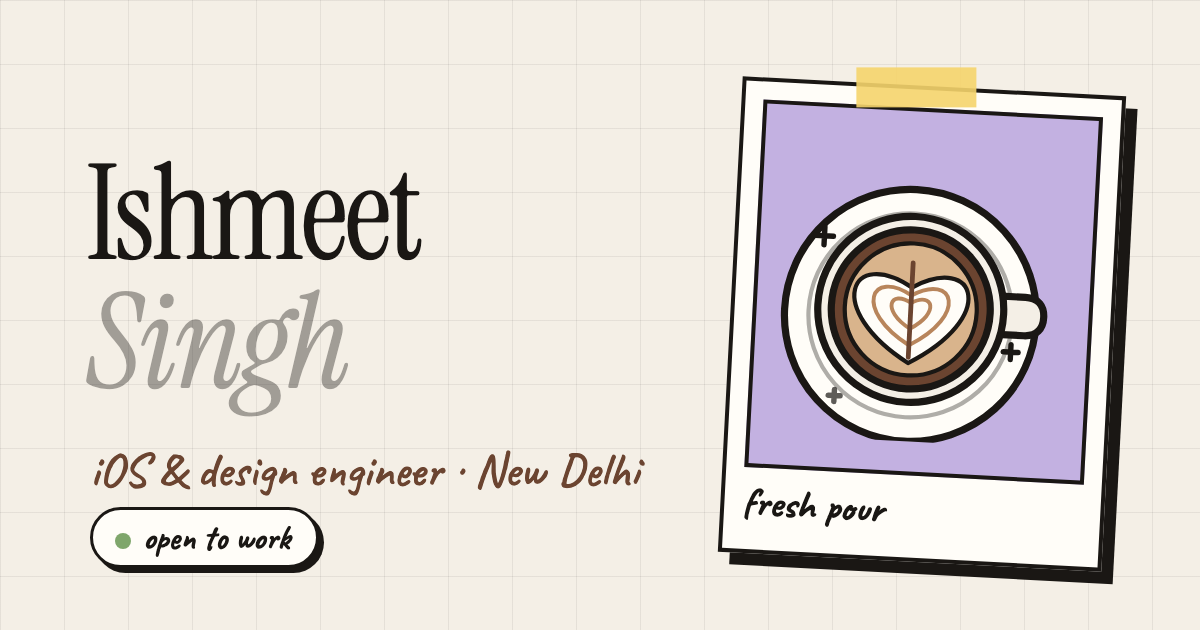
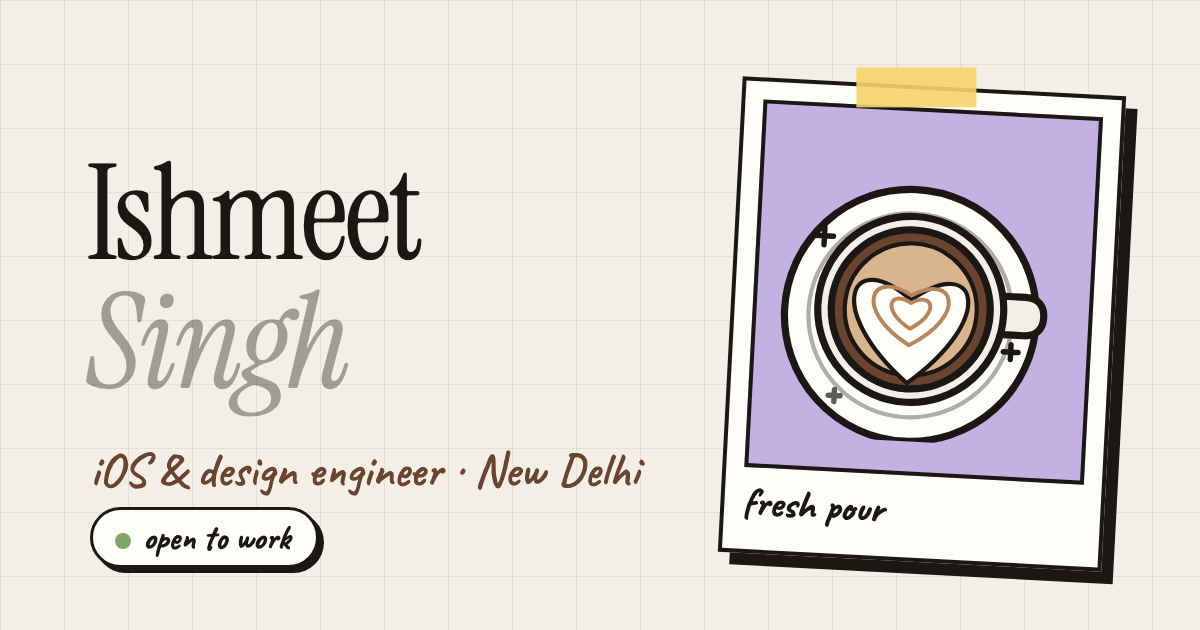
Remove the stray pull-through line from the latte; the pull now stretches the heart's point

Changed region(s): [[0.7092, 0.4222, 0.8325, 0.6032]]

diff --git a/components/preloader/LatteArt.tsx b/components/preloader/LatteArt.tsx
@@ -28,9 +28,15 @@ const HEART_Y = 55; // heart centre
 const HEART_S = 2.1; // full-size scale of the heart path
 const INNER = "#B8855B"; // the thin rings drawn inside the milk
 
-/** A heart centred on (cx, cy): two lobes on top, a point at the bottom. */
-const heart = (cx: number, cy: number, k: number) =>
-  `M${cx} ${cy + 9 * k}C${cx - 14 * k} ${cy + 1 * k} ${cx - 10 * k} ${cy - 9 * k} ${cx} ${cy - 3 * k}C${cx + 10 * k} ${cy - 9 * k} ${cx + 14 * k} ${cy + 1 * k} ${cx} ${cy + 9 * k}Z`;
+/**
+ * A heart centred on (cx, cy): two lobes on top, a point at the bottom. `p` (0–1) is the pull-through:
+ * the spout drags the milk, which stretches the point and dips the notch, with no visible line.
+ */
+const heart = (cx: number, cy: number, k: number, p = 0) => {
+  const tip = cy + (9 + 3.2 * p) * k;
+  const notch = cy + (-3 + 2 * p) * k;
+  return `M${cx} ${tip}C${cx - 14 * k} ${cy + 1 * k} ${cx - 10 * k} ${cy - 9 * k} ${cx} ${notch}C${cx + 10 * k} ${cy - 9 * k} ${cx + 14 * k} ${cy + 1 * k} ${cx} ${tip}Z`;
+};
 
 const clamp = (n: number, a = 0, b = 1) => Math.min(b, Math.max(a, n));
 const ease = (t: number) => 1 - (1 - t) * (1 - t);
@@ -87,17 +93,14 @@ export function LatteArt({ frame }: { frame: number }) {
       <circle cx={CX} cy={CY} r={26.5} fill={colors.espresso} />
       <circle cx={CX} cy={CY} r={22} fill={CREMA} strokeWidth={1.4} />
 
-      {/* the heart: milk, with thin rings inside as it fills, and the line pulled through it */}
+      {/* the heart: milk, with thin rings inside as it fills; the pull-through stretches its point */}
       <g opacity={fade}>
         {f >= POUR_START && (
           <>
-            <path d={heart(CX, HEART_Y, size)} fill={colors.sticker} strokeWidth={1.4} />
+            <path d={heart(CX, HEART_Y, size, pull)} fill={colors.sticker} strokeWidth={1.4} />
             {grow > 0.5 && <path d={heart(CX, HEART_Y + 0.5, size * 0.66)} stroke={INNER} strokeWidth={1.3} />}
             {grow > 0.8 && <path d={heart(CX, HEART_Y + 1, size * 0.34)} stroke={INNER} strokeWidth={1.3} />}
           </>
-        )}
-        {pull > 0 && (
-          <path d="M46 40.5V72" pathLength={1} strokeDasharray={1} strokeDashoffset={1 - pull} strokeWidth={1.6} stroke={colors.espresso} />
         )}
         {f >= 28 && f <= 33 && (
           <g strokeWidth={1.8}>
